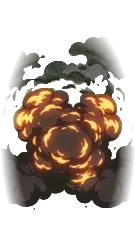
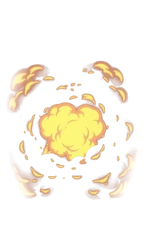
Meteor without the side-clipped black smoke (re-cut frames from the 14/10 stash), ribbon text centred on each ribbon's cloth band, clock hidden under pause/result

diff --git a/src/game/game.ts b/src/game/game.ts
@@ -1229,9 +1229,11 @@ export class Game {
     const ty = top + 78;
     const remain = Math.max(0, m.T.runLength - m.time);
     const late = remain < 60;
-    outlinedText(ctx, fmtTime(m.time), v.w / 2, ty, 46, late ? '#f0c060' : '#fff', INK, 'center');
+    // a modal (pause / result) already states the time: keep the clock off so nothing peeks over its ribbon
+    const modal = this.paused || this.result !== null;
+    if (!modal) outlinedText(ctx, fmtTime(m.time), v.w / 2, ty, 46, late ? '#f0c060' : '#fff', INK, 'center');
     // what the clock is counting toward: the next boss, then the zone clear (the boss bar takes this spot in a fight)
-    if (!m.boss && m.status === 'play') {
+    if (!modal && !m.boss && m.status === 'play') {
       const next = m.T.bossAt[m.bossesSpawned];
       const goal = next !== undefined ? 'NEXT BOSS IN ' + fmtTime(next - m.time) : 'ZONE CLEAR IN ' + fmtTime(remain);
       outlinedText(ctx, goal, v.w / 2, ty + 40, 20, next !== undefined ? '#f3d79a' : '#bfe39a', INK, 'center');

diff --git a/src/game/ui.ts b/src/game/ui.ts
@@ -307,7 +307,9 @@ export function ribbon(ctx: Ctx, cx: number, y: number, w: number, text: string,
     const h = 96, ww = w + 120;
     nine(ctx, key, { x: cx - ww / 2, y: y - 6, w: ww, h }, 0.5);
     const size = fitSize(ctx, text, 40, w - 40);
-    outlinedText(ctx, text, cx, y + h * 0.4, size, '#f6ead0', '#2a1d16', 'center');
+    // the cloth band sits at a different height in each painted ribbon (measured: green 62 %, red 38 % of the image)
+    const band = tone === 'green' ? 0.6 : 0.38;
+    outlinedText(ctx, text, cx, y - 6 + h * band, size, '#f6ead0', '#2a1d16', 'center');
     return;
   }
   const [top, bottom, dark, outline] = tone === 'green'
